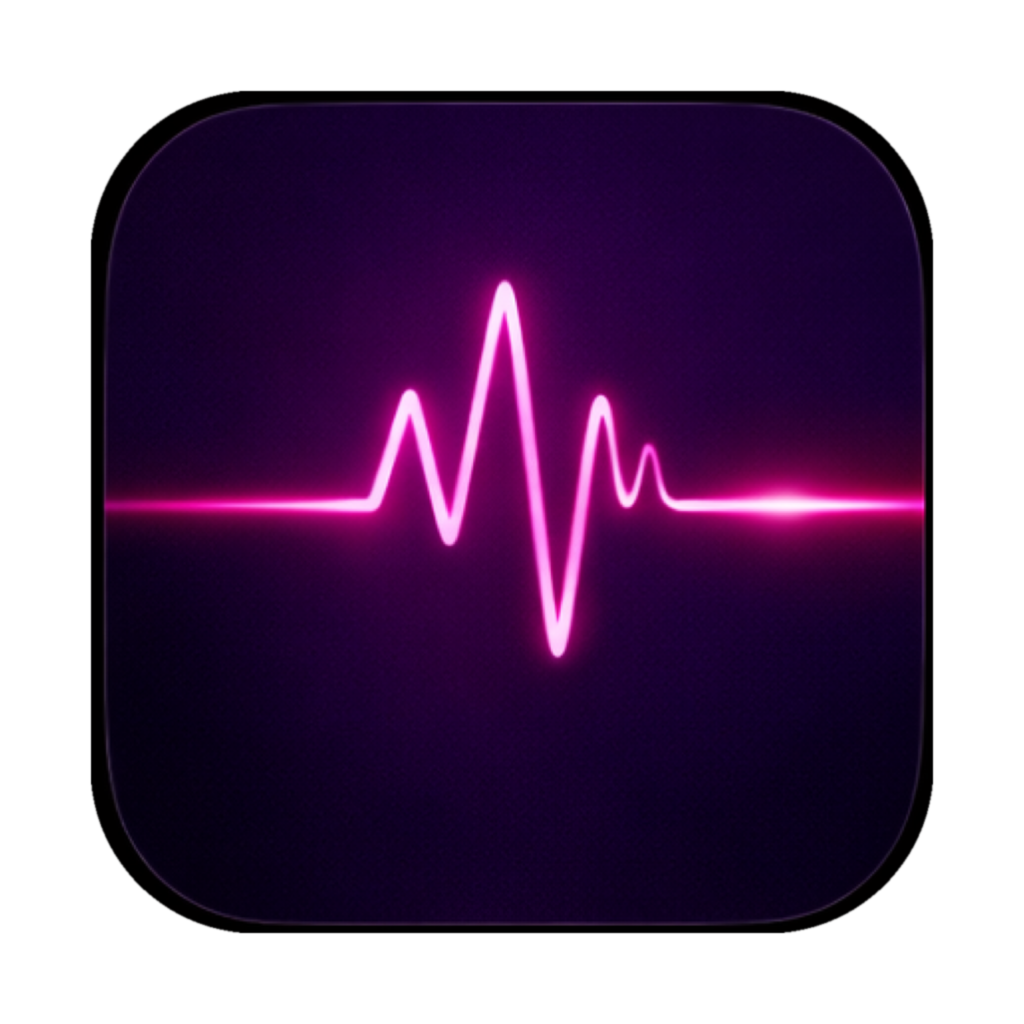
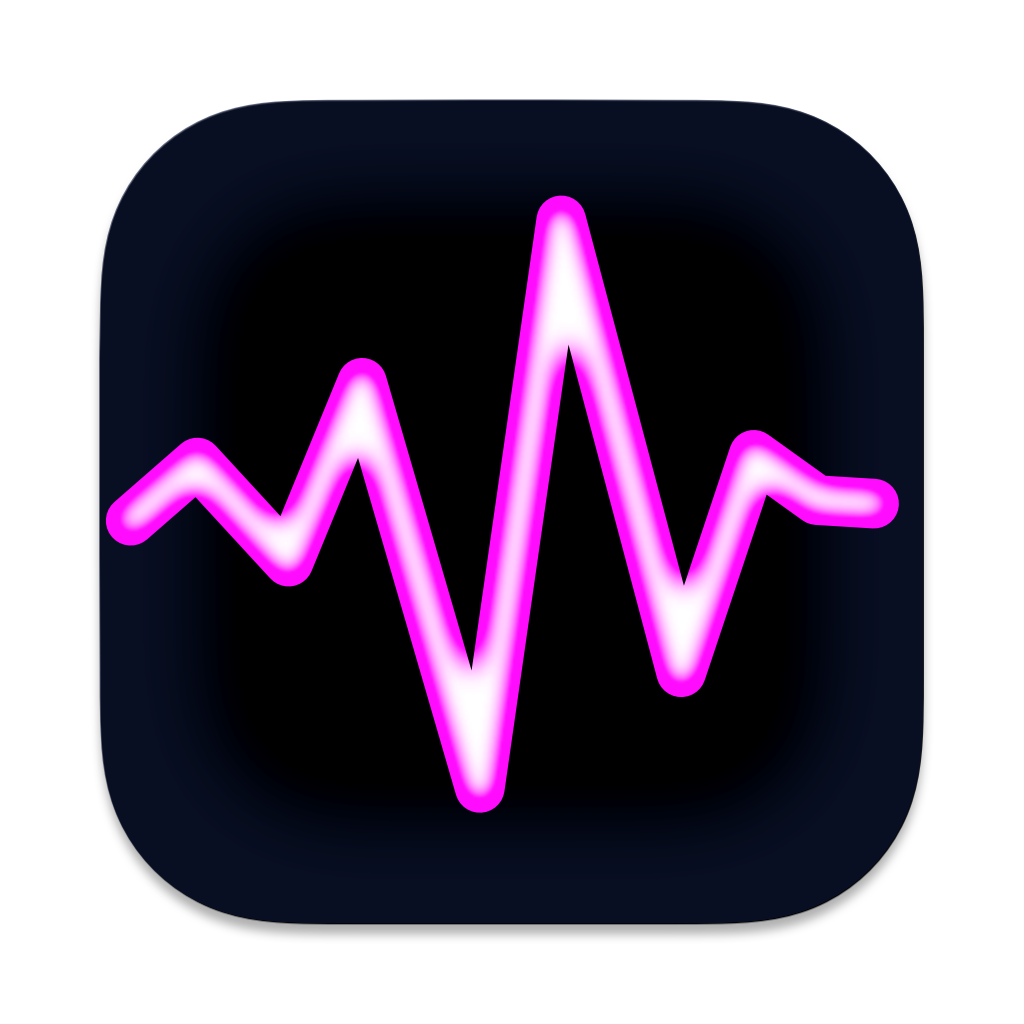
Prepare v1.0.0 release

diff --git a/LiberaApp.cpp b/LiberaApp.cpp
@@ -111,8 +111,6 @@ bool LiberaApp::init(const LiberaAppConfig& config) {
     io.Fonts->AddFontFromMemoryCompressedTTF(
         ForkAwesome_compressed_data, ForkAwesome_compressed_size, largeFontSize, &mergeConfig, iconRanges);
 
-    io.Fonts->Build();
-
     // ---- Libera dark theme ----
     ImGuiStyle& style = ImGui::GetStyle();
     style.FontScaleMain   = 1.0f / dpiScale;

diff --git a/fonts/RobotoBold.cpp b/fonts/RobotoBold.cpp
@@ -1,4 +1,4 @@
-// File: 'C:\Users\Seb\Dropbox\WindowsShare\Roboto\Roboto-Bold.ttf' (167336 bytes)
+// File: './Roboto-Bold.ttf' (167336 bytes)
 // Exported using binary_to_compressed_c.cpp
 extern const unsigned int RobotoBold_compressed_size = 118267;
 extern const unsigned int RobotoBold_compressed_data[118268/4] =

diff --git a/THIRD_PARTY_NOTICES.md b/THIRD_PARTY_NOTICES.md
@@ -1,0 +1,18 @@
+# Third-Party Notices
+
+This repository is MIT-licensed at the top level. That license applies to the
+source files in this repository unless a subdirectory or bundled dependency
+states otherwise.
+
+Included third-party components keep their own licenses:
+
+- `libs/libera-core` is a git submodule with its own `LICENSE` file.
+- `libs/libera-core/libs/helios_dac` contains mixed-license material. Its host
+  SDK is MIT-licensed, but its hardware and firmware subdirectories include
+  additional non-commercial restrictions. See
+  `libs/libera-core/libs/helios_dac/LICENSE.md` for the authoritative terms.
+- Build-time dependencies fetched by CMake, such as GLFW and Dear ImGui, remain
+  under their respective upstream licenses.
+
+Before redistributing binaries or vendoring submodule contents, review the
+licenses shipped with those dependencies.

diff --git a/README.md b/README.md
@@ -25,3 +25,12 @@ cmake --build --preset debug
 
 The build pulls GLFW and Dear ImGui at configure time and uses
 `libs/libera-core` for controller discovery and output.
+
+## License
+
+Libera Lab is licensed under the MIT License. See [LICENSE](LICENSE).
+
+This repository also depends on code with its own licensing terms, especially
+inside `libs/libera-core` and its bundled third-party sources. See
+[THIRD_PARTY_NOTICES.md](THIRD_PARTY_NOTICES.md) before redistributing
+submodule contents or packaged binaries.